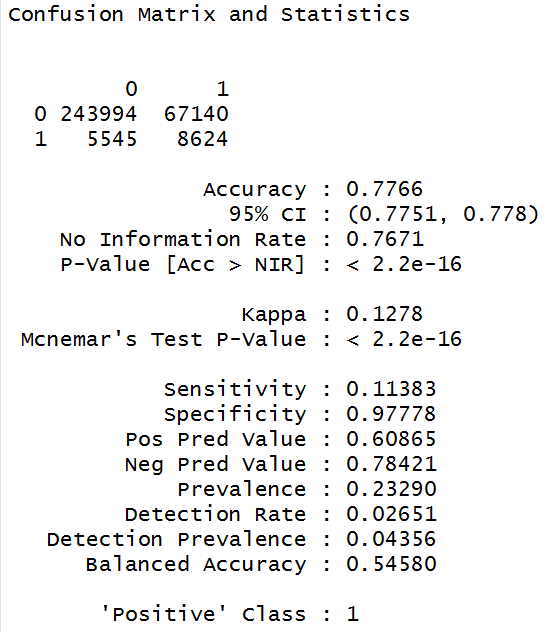
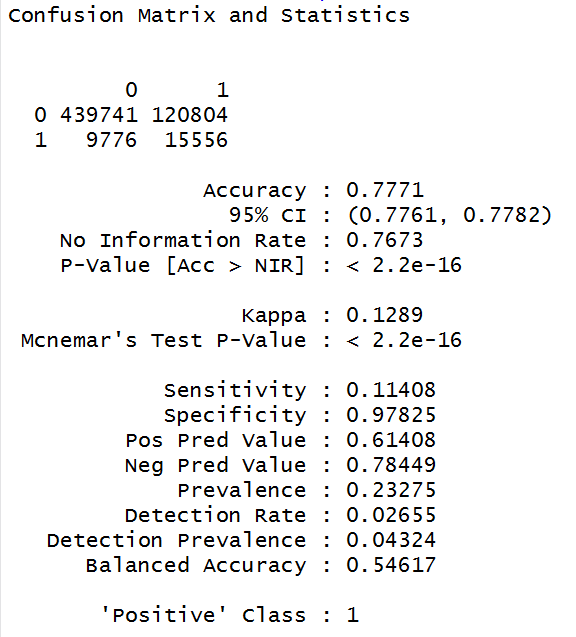
modify images and README file

diff --git a/Flight_Delay_Prediction/README.md b/Flight_Delay_Prediction/README.md
@@ -1,12 +1,14 @@
-# Flight Delay Prediction using Microsoft R Server (a.k.a. Revolution R Enterprise)
+# Flight Delay Prediction with RevoScaleR (Microsoft R Server)
 
 In this example, we use historical on-time performance and weather data to predict whether the arrival of a scheduled passenger flight will be delayed by more than 15 minutes.
 
 We approach this problem as a classification problem, predicting two classes -- whether the flight will be delayed, or whether it will be on time. Broadly speaking, in machine learning and statistics, classification is the task of identifying the class or category to which a new observation belongs, on the basis of a training set of data containing observations with known categories. Classification is generally a supervised learning problem. Since this is a binary classification task, there are only  two classes.
 
-To solve this categorization problem, we will build an example using Microsoft R Server. In this example, we train a model using a large number of examples from historic flight data, along with an outcome measure that indicates the appropriate category or class for each example. The two classes are labeled 1 if a flight was delayed, and labeled 0 if the flight was on time.
+To solve this categorization problem, we build an example using `RevoScaleR` library within Microsoft R Server. The `RevoScaleR` library provides extremely fast statistical analysis on terabyte-class data sets without needing specialized hardware. Also, the `RevoScaleR` platform offers efficient, local data storage, which offers numerous benefits when working with extremely large datasets.
 
-There are five basic steps in building this example using Microsoft R Server (all the R scripts are available in **RRE_Flight_Delay.R**.):
+In this example, we train a model using a large number of examples from historic flight data, along with an outcome measure that indicates the appropriate category or class for each example. The two classes are labeled 1 if a flight was delayed, and labeled 0 if the flight was on time.
+
+There are five basic steps in building this example using Microsoft R Server (all the R scripts are available in **MRS_Flight_Delay.R**.):
 
 Prepare the Data
 
@@ -212,7 +214,7 @@ rxExec(rxSplit, inData = finalData,
        outFileSuffixes=c("Train", "Test"),
        splitByFactor="splitVar",
        overwrite=TRUE,
-       transforms=list(splitVar = factor(sample(c("Train", "Test"), size=.rxNumRows, replace=TRUE, prob=c(.80, .10)),
+       transforms=list(splitVar = factor(sample(c("Train", "Test"), size=.rxNumRows, replace=TRUE, prob=c(.80, .20)),
                        levels= c("Train", "Test"))),
        rngSeed=17,
        consoleOutput=TRUE
@@ -241,8 +243,7 @@ summary(logitModel)
 
 Once we learn the algorithm on the training dataset, we can predict the probability of a flight is going to be delayed by 15 minutes on the test dataset. In the `rxPredict()`, we choose `type = 'response'` because the predictions are on the scale of the response variable in the range of (0, 1).
 ```
-predictLogit <- rxPredict(logitModel, data = 'finalData.splitVar.Test.xdf',
-                          outData = 'logitTest.xdf',
+predictLogit <- rxPredict(logitModel, data = 'finalData.splitVar.Test.logit.xdf',
                           type = 'response', overwrite = TRUE)
 ```
 Let's take a look of the first 5 rows of the prediction results. The `ArrDel15_Pred` column contains the predictions.
@@ -253,28 +254,25 @@ rxGetInfo(predictLogit, getVarInfo = TRUE, numRows = 5)
 
 By setting 0.5 as the threshold, we can classify all the predictions that are less than 0.5 as 0 (Arrival was not delayed by 15 minutes) and all the predictions that are greater or equal to 0.5 as 1 (Arrival was delayed by 15 minutes).
 ```
-testDF <- rxImport('finalData.splitVar.Test.xdf')
-predictDF <- rxImport('logitTest.xdf')
-predictDF$ArrDel15_Class[which(predictDF$ArrDel15_Pred < 0.5)] <- 0
-predictDF$ArrDel15_Class[which(predictDF$ArrDel15_Pred >= 0.5)] <- 1
+testDF <- rxImport('finalData.splitVar.Test.logit.xdf')
+testDF$ArrDel15_Class[which(testDF$ArrDel15_Pred < 0.5)] <- 0
+testDF$ArrDel15_Class[which(testDF$ArrDel15_Pred >= 0.5)] <- 1
 ```
 
-In order to evaluate how this model performs, we calculate the `Area Under the Curve (AUC)`. `AUC` is a metric used to judge predictions in binary response (0 vs. 1) problem. As we can see in the result, the Logistic Regression model has a AUC of **0.6998**.
+Let's take a look of the ROC Curve of Logistic Regression model.
 ```
-auc <- function(outcome, prob){
-  N <- length(prob)
-  N_pos <- sum(outcome)
-  df <- data.frame(out = outcome, prob = prob)
-  df <- df[order(-df$prob),]
-  df$above <- (1:N) - cumsum(df$out)
-  return( 1- sum( df$above * df$out ) / (N_pos * (N-N_pos) ) )
-}
-auc(testDF$ArrDel15, predictDF$ArrDel15_Pred)
+rxRocCurve( "ArrDel15", "ArrDel15_Pred", predictLogit)
+```
+![][roc1]
+
+In order to evaluate how this model performs, we calculate the `Area Under the Curve (AUC)`. `AUC` is a metric used to judge predictions in binary response (0 vs. 1) problem. As we can see in the result, the Logistic Regression model has a AUC of **0.70**.
+```
+rxAuc(rxRoc("ArrDel15", "ArrDel15_Pred", predictLogit))
 ```
 
 We also compute the `Confusion Matrix` to describe the performance of the Logistic Regression model on a set of test data for which the true values are known.
 ```
-xtab <- table(predictDF$ArrDel15_Class, testDF$ArrDel15)
+xtab <- table(testDF$ArrDel15_Class, testDF$ArrDel15)
 (if(!require("e1071")) install.packages("e1071"))
 (if(!require("caret")) install.packages("caret"))
 library(e1071)
@@ -308,32 +306,37 @@ dTree2 <- prune.rxDTree(dTree1, cp = treeCp)
 
 We predict the probability of flight delay on the test dataset using the trained Decision Tree model.
 ```
-predictTree <- rxPredict(dTree2, data = 'finalData.splitVar.Test.xdf',
-                         outData = 'dTreeTest.xdf',
+predictTree <- rxPredict(dTree2, data = 'finalData.splitVar.Test.tree.xdf',
                          overwrite = TRUE)
 ```
 
 Again, by setting 0.5 as the threshold, we can classify all the predictions that are less than 0.5 as 0 (Arrival was not delayed by 15 minutes) and all the predictions that are greater or equal to 0.5 as 1 (Arrival was delayed by 15 minutes).
 ```
-predictDF2 <- rxImport('dTreeTest.xdf')
-predictDF2$ArrDel15_Class[which(predictDF2$ArrDel15_Pred < 0.5)] <- 0
-predictDF2$ArrDel15_Class[which(predictDF2$ArrDel15_Pred >= 0.5)] <- 1
+testDF2 <- rxImport('finalData.splitVar.Test.tree.xdf')
+testDF2$ArrDel15_Class[which(testDF2$ArrDel15_Pred < 0.5)] <- 0
+testDF2$ArrDel15_Class[which(testDF2$ArrDel15_Pred >= 0.5)] <- 1
 ```
 
-The `AUC` of the Decision Tree model is **0.7284**, which is higher than the `AUC` of the Logistic Regression model.
+Let's take a look of the ROC Curve of Logistic Regression model.
 ```
-auc(testDF$ArrDel15, predictDF2$ArrDel15_Pred)
+rxRocCurve( "ArrDel15", "ArrDel15_Pred", predictTree)
+```
+![][roc2]
+
+The `AUC` of the Decision Tree model is **0.73**, which is higher than the `AUC` of the Logistic Regression model.
+```
+rxAuc(rxRoc("ArrDel15", "ArrDel15_Pred", predictTree))
 ```
 
 The `Confusion Matrix` also shows that the Decision Tree model has a better _Accuracy_ and _Balanced Accuracy_ comparing to the Logistic Regression model when predicting whether the arrival of a scheduled passenger flight will be delayed by more than 15 minutes with these datasets.
 ```
-xtab2 <- table(predictDF2$ArrDel15_Class, testDF$ArrDel15)
+xtab2 <- table(testDF2$ArrDel15_Class, testDF2$ArrDel15)
 confusionMatrix(xtab2, positive = '1')
 ```
 ![][image7]
 
 
-**Microsoft R Server** is fun to play with and works extremely well with large-scale datasets. When you're looking for a solution to deal with over million of records, you can definitely give a try on Microsoft R Server.
+**RevoScaleR** is fun to play with and works extremely well with large-scale datasets. When you're looking for a solution to deal with over million of records, you can definitely give it a try on Microsoft R Server or Microsoft R Open.
 
 
 <!-- Images -->
@@ -344,3 +347,5 @@ confusionMatrix(xtab2, positive = '1')
 [image5]:https://raw.githubusercontent.com/mezmicrosoft/Microsoft_R_Server/master/Flight_Delay_Prediction/image5.PNG
 [image6]:https://raw.githubusercontent.com/mezmicrosoft/Microsoft_R_Server/master/Flight_Delay_Prediction/image6.PNG
 [image7]:https://raw.githubusercontent.com/mezmicrosoft/Microsoft_R_Server/master/Flight_Delay_Prediction/image7.PNG
+[roc1]:https://raw.githubusercontent.com/mezmicrosoft/Microsoft_R_Server/master/Flight_Delay_Prediction/roc1.PNG
+[roc2]:https://raw.githubusercontent.com/mezmicrosoft/Microsoft_R_Server/master/Flight_Delay_Prediction/roc2.PNG
